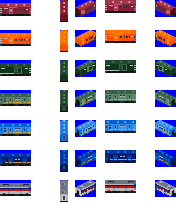
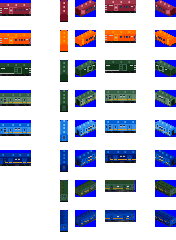
Add #126: Mail car

diff --git a/docs/download_page/korean.html b/docs/download_page/korean.html
@@ -580,7 +580,7 @@
         <td class="introduction">1950</td>
     </tr>
     <tr data-veh_id="BAGGAGE_CAR">
-        <td class="refit"><div><img src="./_static/BAGGAGE_CAR_A.png" alt="수화물차"><br /><img src="./_static/BAGGAGE_CAR_B.png" alt="수화물차"><br /><img src="./_static/BAGGAGE_CAR_C.png" alt="수화물차"><br /><img src="./_static/BAGGAGE_CAR_D.png" alt="수화물차"><br /><img src="./_static/BAGGAGE_CAR_E.png" alt="수화물차"><br /><img src="./_static/BAGGAGE_CAR_F.png" alt="수화물차"><br /><img src="./_static/BAGGAGE_CAR_MAIL.png" alt="수화물차"><br /><img src="./_static/BAGGAGE_CAR_BIDULGI.png" alt="수화물차"></div></td>
+        <td class="refit"><div><img src="./_static/BAGGAGE_CAR_A.png" alt="수화물차"><br /><img src="./_static/BAGGAGE_CAR_B.png" alt="수화물차"><br /><img src="./_static/BAGGAGE_CAR_C.png" alt="수화물차"><br /><img src="./_static/BAGGAGE_CAR_D.png" alt="수화물차"><br /><img src="./_static/BAGGAGE_CAR_E.png" alt="수화물차"><br /><img src="./_static/BAGGAGE_CAR_F.png" alt="수화물차"><br /><img src="./_static/BAGGAGE_CAR_BIDULGI.png" alt="수화물차"></div></td>
         <td class="name">수화물차</td>
         <td class="speed">120 km/h</td>
         <td class="speed_designed">120 km/h</td>
@@ -592,6 +592,16 @@
     <tr data-veh_id="TANK_CAR">
         <td class="refit"><div><img src="./_static/TANK_CAR_1.png" alt="유조차"><br /><img src="./_static/TANK_CAR_2.png" alt="유조차"><br /><img src="./_static/TANK_CAR_3.png" alt="유조차"></div></td>
         <td class="name">유조차</td>
+        <td class="speed"></td>
+        <td class="speed_designed"></td>
+        <td class="capacity">35</td>
+        <td class="power"></td>
+        <td class="weight">17 t</td>
+        <td class="introduction">1950</td>
+    </tr>
+    <tr data-veh_id="MAIL_CAR">
+        <td class="refit"><div><img src="./_static/MAIL_CAR_1.png" alt="우편차"><br /><img src="./_static/MAIL_CAR_2.png" alt="우편차"><br /><img src="./_static/MAIL_CAR_3.png" alt="우편차"><br /><img src="./_static/MAIL_CAR_4.png" alt="우편차"><br /><img src="./_static/MAIL_CAR_5.png" alt="우편차"></div></td>
+        <td class="name">우편차</td>
         <td class="speed"></td>
         <td class="speed_designed"></td>
         <td class="capacity">35</td>

diff --git a/docs/download_page/english.html b/docs/download_page/english.html
@@ -580,7 +580,7 @@
         <td class="introduction">1950</td>
     </tr>
     <tr data-veh_id="BAGGAGE_CAR">
-        <td class="refit"><div><img src="./_static/BAGGAGE_CAR_A.png" alt="Baggage car"><br /><img src="./_static/BAGGAGE_CAR_B.png" alt="Baggage car"><br /><img src="./_static/BAGGAGE_CAR_C.png" alt="Baggage car"><br /><img src="./_static/BAGGAGE_CAR_D.png" alt="Baggage car"><br /><img src="./_static/BAGGAGE_CAR_E.png" alt="Baggage car"><br /><img src="./_static/BAGGAGE_CAR_F.png" alt="Baggage car"><br /><img src="./_static/BAGGAGE_CAR_MAIL.png" alt="Baggage car"><br /><img src="./_static/BAGGAGE_CAR_BIDULGI.png" alt="Baggage car"></div></td>
+        <td class="refit"><div><img src="./_static/BAGGAGE_CAR_A.png" alt="Baggage car"><br /><img src="./_static/BAGGAGE_CAR_B.png" alt="Baggage car"><br /><img src="./_static/BAGGAGE_CAR_C.png" alt="Baggage car"><br /><img src="./_static/BAGGAGE_CAR_D.png" alt="Baggage car"><br /><img src="./_static/BAGGAGE_CAR_E.png" alt="Baggage car"><br /><img src="./_static/BAGGAGE_CAR_F.png" alt="Baggage car"><br /><img src="./_static/BAGGAGE_CAR_BIDULGI.png" alt="Baggage car"></div></td>
         <td class="name">Baggage car</td>
         <td class="speed">120 km/h</td>
         <td class="speed_designed">120 km/h</td>
@@ -592,6 +592,16 @@
     <tr data-veh_id="TANK_CAR">
         <td class="refit"><div><img src="./_static/TANK_CAR_1.png" alt="Tank car"><br /><img src="./_static/TANK_CAR_2.png" alt="Tank car"><br /><img src="./_static/TANK_CAR_3.png" alt="Tank car"></div></td>
         <td class="name">Tank car</td>
+        <td class="speed"></td>
+        <td class="speed_designed"></td>
+        <td class="capacity">35</td>
+        <td class="power"></td>
+        <td class="weight">17 t</td>
+        <td class="introduction">1950</td>
+    </tr>
+    <tr data-veh_id="MAIL_CAR">
+        <td class="refit"><div><img src="./_static/MAIL_CAR_1.png" alt="Mail car"><br /><img src="./_static/MAIL_CAR_2.png" alt="Mail car"><br /><img src="./_static/MAIL_CAR_3.png" alt="Mail car"><br /><img src="./_static/MAIL_CAR_4.png" alt="Mail car"><br /><img src="./_static/MAIL_CAR_5.png" alt="Mail car"></div></td>
+        <td class="name">Mail car</td>
         <td class="speed"></td>
         <td class="speed_designed"></td>
         <td class="capacity">35</td>

diff --git a/src/spec.py b/src/spec.py
@@ -76,6 +76,7 @@ trainList['FLAT_CAR']           = None,   None,   100,    2,            35,     
 trainList['HOPPER_CAR']         = None,   None,   100,    2,            35,      5,            None,   17,     (1950, 1, 1)
 trainList['BAGGAGE_CAR']        = 120,    120,    100,    2,            35,      5,            None,   17,     (1950, 1, 1)
 trainList['TANK_CAR']           = None,   None,   100,    2,            35,      5,            None,   17,     (1950, 1, 1)
+trainList['MAIL_CAR']           = None,   None,   100,    2,            35,      5,            None,   17,     (1950, 1, 1)
 trainList['STAKE_CAR']          = None,   None,   100,    2,            35,      5,            None,   17,     (1950, 1, 1)
 
 
